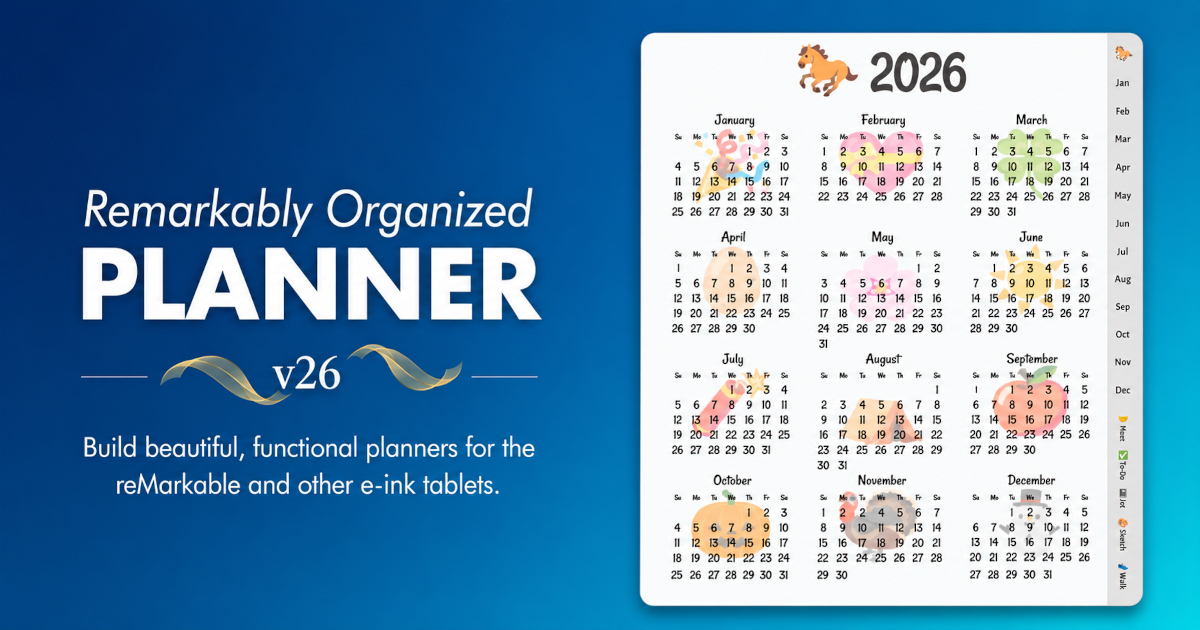
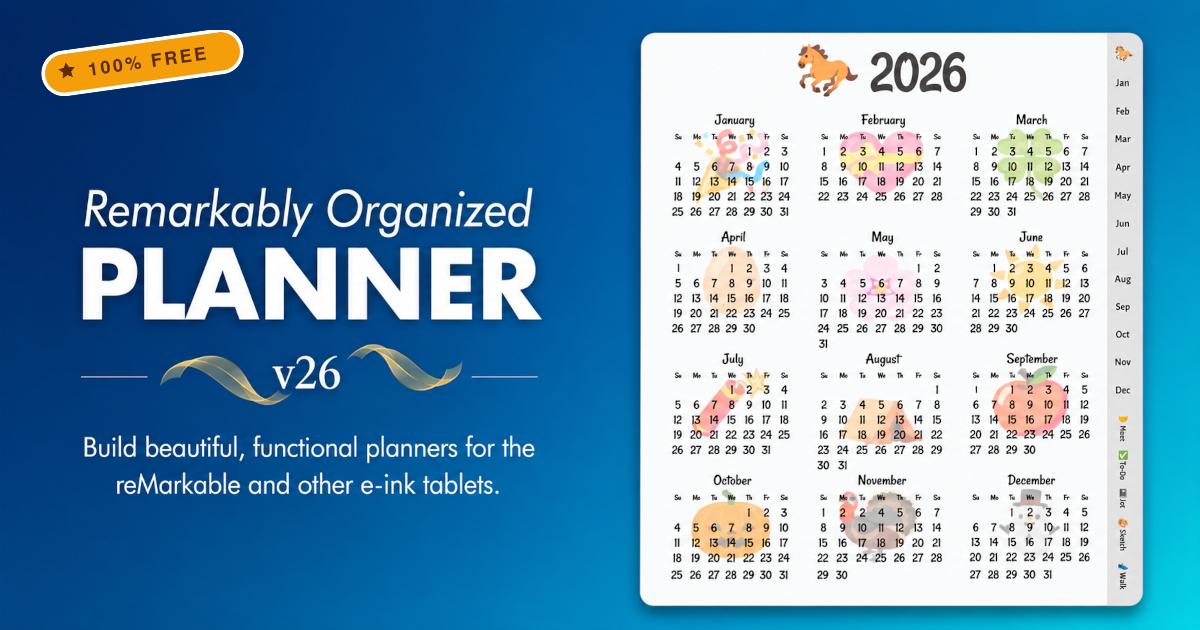
feat: add interactive free-badge and hover effects to landing page preview image

Changed region(s): [[0.0308, 0.0302, 0.2158, 0.1508]]

diff --git a/src/routes/+page.svelte b/src/routes/+page.svelte
@@ -47,12 +47,20 @@
 		<p>
 			Build beautiful, functional planners for the reMarkable and other e-ink tablets. 
 		</p>
-		<a href="/planner{page.url.search}">Start Creating</a>
+		<a href="/planner{page.url.search}" class="primary-cta">Start Creating</a>
 	</section>
 	<section class="preview-section">
-		<img
-			src="/remarkably-organized-year-view.jpg?url"
-			alt="Remarkably Organized Planner - Year View" />
+		<a href="/planner{page.url.search}" class="image-wrapper">
+			<div class="free-badge">
+				<svg class="star-icon" viewBox="0 0 24 24" fill="currentColor">
+					<path d="M12 2l3.09 6.26L22 9.27l-5 4.87 1.18 6.88L12 17.77l-6.18 3.25L7 14.14 2 9.27l6.91-1.01L12 2z"/>
+				</svg>
+				100% FREE
+			</div>
+			<img
+				src="/remarkably-organized-year-view.jpg?url"
+				alt="Remarkably Organized Planner - Year View" />
+		</a>
 	</section>
 </main>
 
@@ -99,12 +107,73 @@
 		}
 	}
 
+	.image-wrapper {
+		position: relative;
+		display: flex;
+		justify-content: center;
+		align-items: center;
+		transition: transform 0.3s ease-in-out;
+		
+		/* Adding a subtle float animation on hover for dynamic feel */
+		&:hover {
+			transform: scale(1.02) translateY(-5px);
+			
+			.free-badge {
+				transform: rotate(-12deg) scale(1.1);
+				box-shadow: 0 15px 35px rgba(245, 158, 11, 0.6), inset 0 2px 4px rgba(255, 255, 255, 0.8);
+			}
+		}
+	}
+
+	.free-badge {
+		position: absolute;
+		top: -10px;
+		left: -10px;
+		background: linear-gradient(135deg, #FCD34D, #F59E0B);
+		color: #5d2b00;
+		font-weight: 900;
+		font-size: 1rem;
+		padding: 0.5rem 1.25rem;
+		border-radius: 999px;
+		box-shadow: 0 10px 25px rgba(245, 158, 11, 0.4), inset 0 2px 4px rgba(255, 255, 255, 0.6);
+		transform: rotate(-8deg);
+		z-index: 10;
+		border: 2px solid #FFF;
+		display: flex;
+		align-items: center;
+		gap: 0.5rem;
+		letter-spacing: 0.5px;
+		transition: transform 0.4s cubic-bezier(0.175, 0.885, 0.32, 1.275), box-shadow 0.4s ease;
+		pointer-events: none;
+		
+		@include tablet {
+			top: -15px;
+			left: -20px;
+			font-size: 1.25rem;
+			padding: 0.75rem 2rem;
+		}
+
+		.star-icon {
+			width: 18px;
+			height: 18px;
+			@include tablet {
+				width: 22px;
+				height: 22px;
+			}
+		}
+	}
+
 	img {
 		max-width: 100%;
 		max-height: 80vh;
 		border-radius: 20px;
 		object-fit: contain;
 		box-shadow: 0px 10px 30px rgba(0,0,0,0.4);
+		transition: box-shadow 0.3s ease;
+
+		.image-wrapper:hover & {
+			box-shadow: 0px 15px 40px rgba(0,0,0,0.5);
+		}
 	}
 
 	h1 {
@@ -179,12 +248,13 @@
 		}
 	}
 
-	a {
+	.primary-cta {
 		display: flex;
 		align-items: center;
 		justify-content: center;
 		background-color: #ffffff;
 		color: black;
+		text-decoration: none;
 		border-radius: 999px;
 		padding: 1.25rem 3rem;
 		font-size: 1.25rem;
